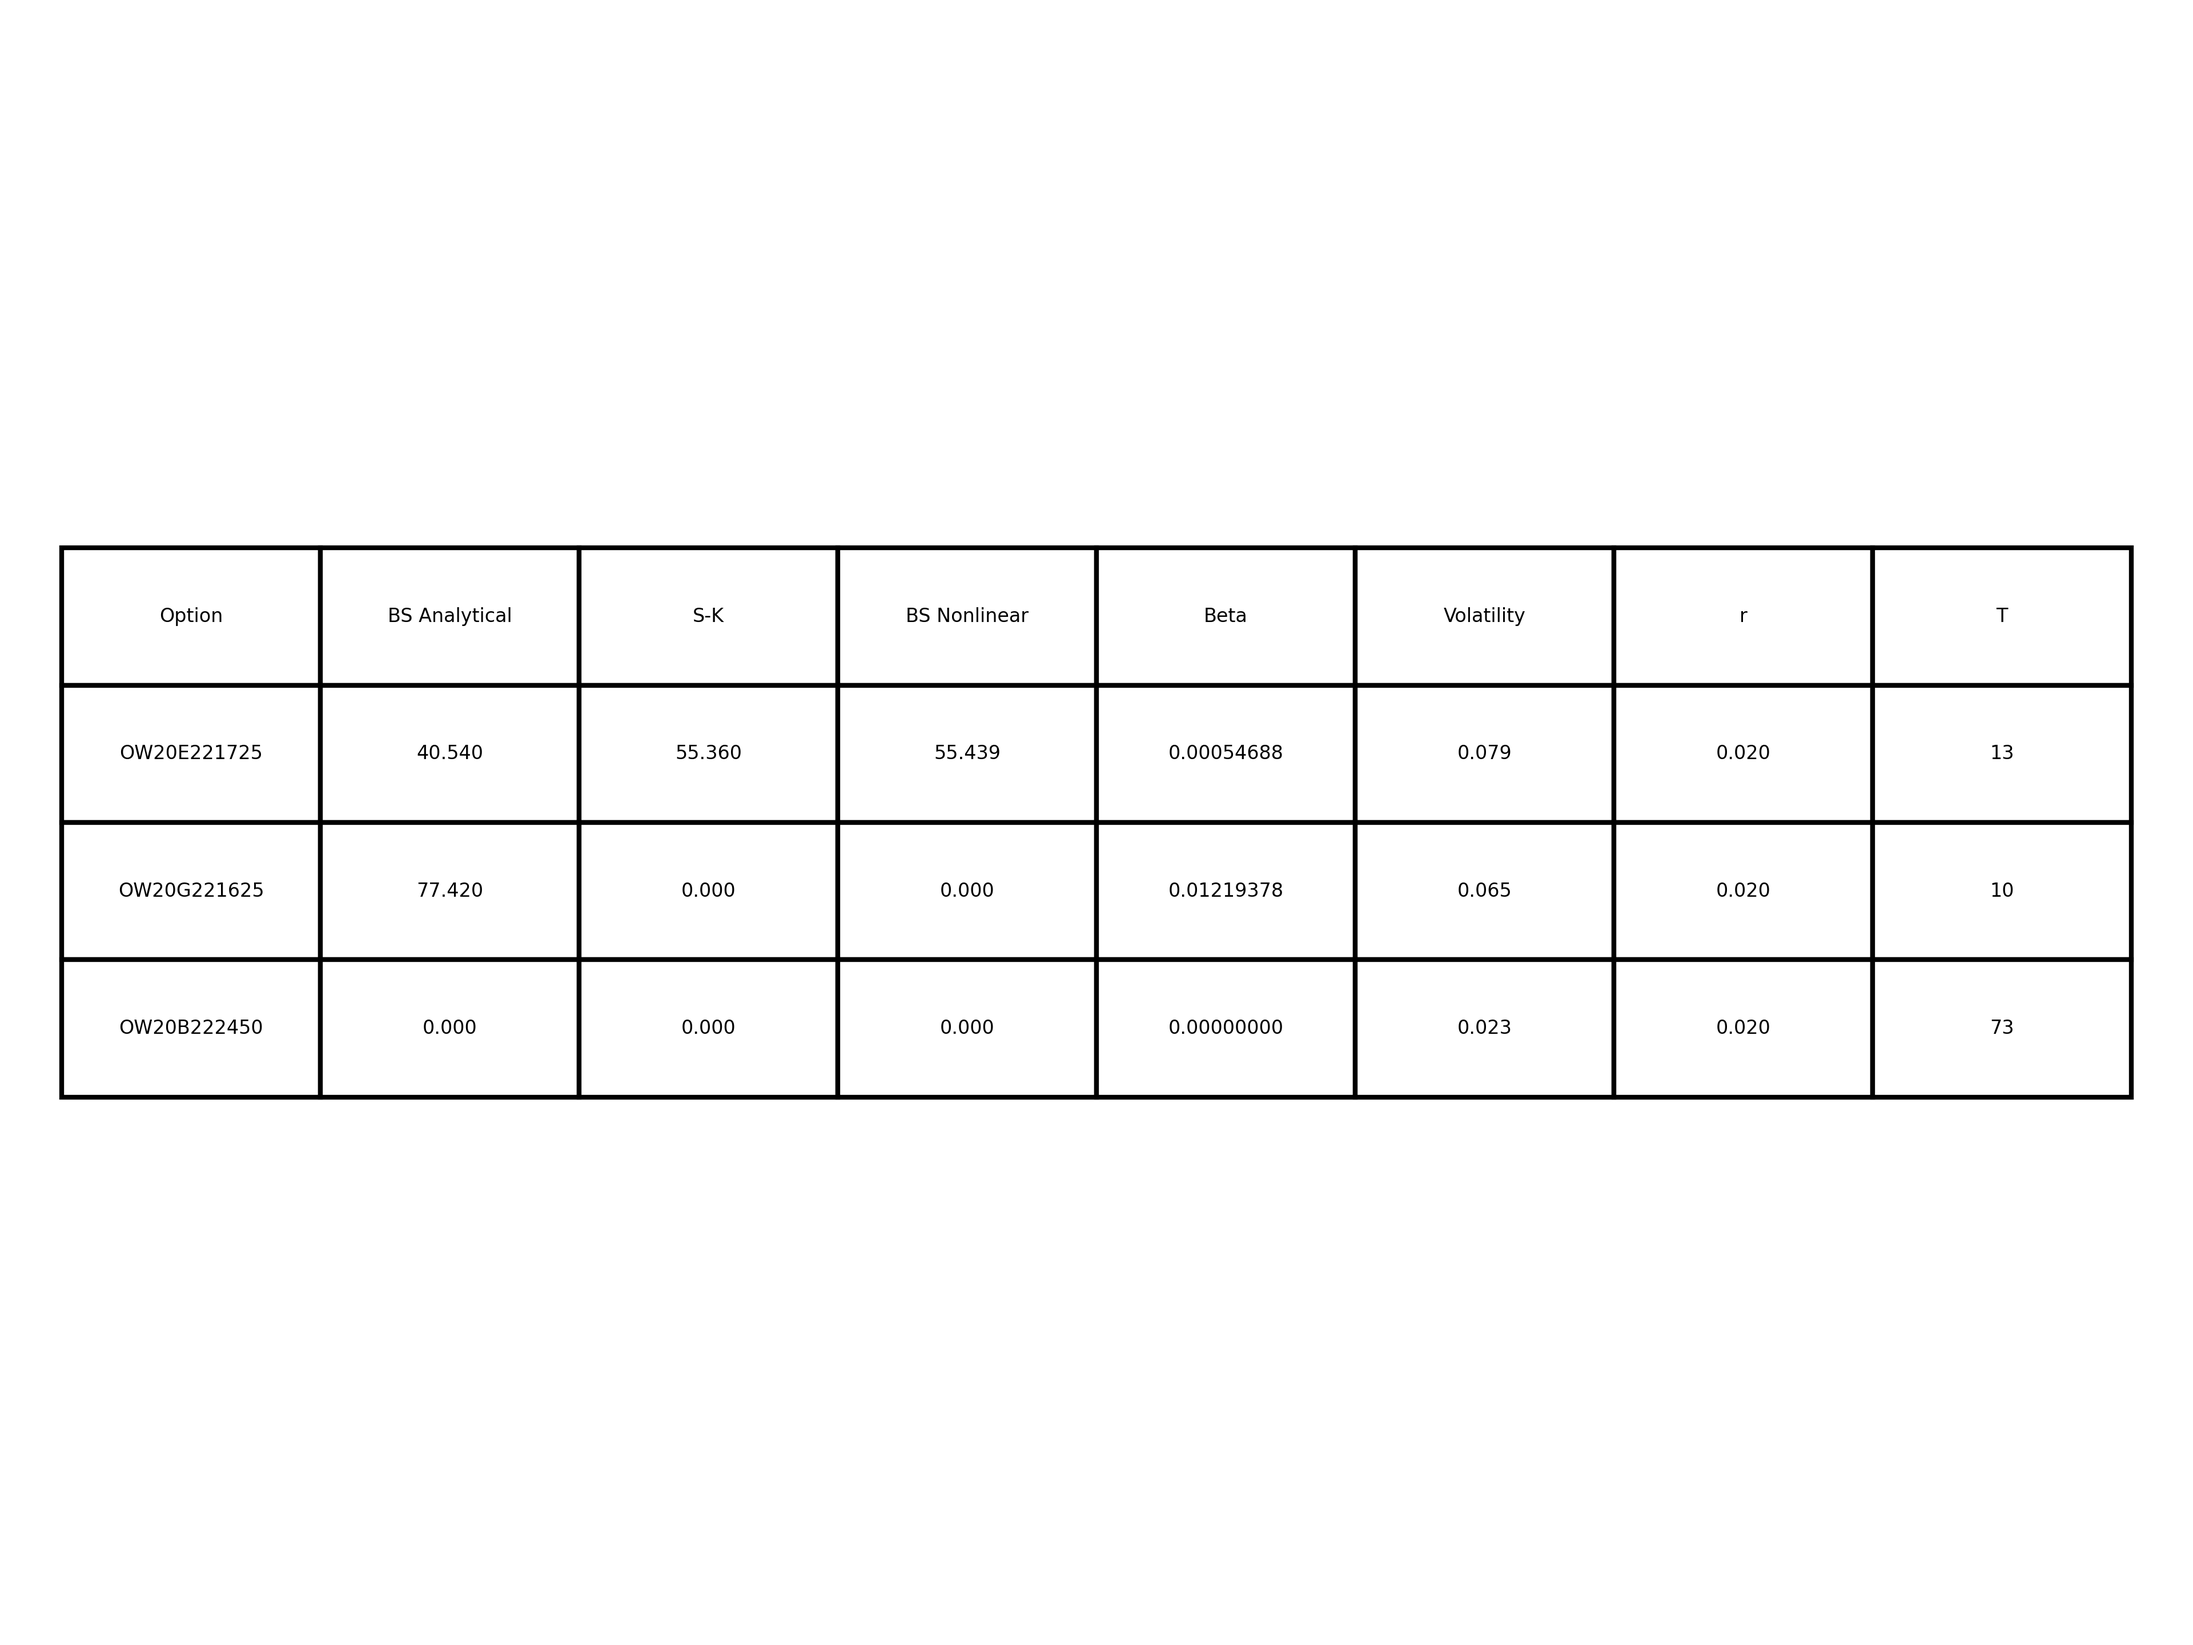
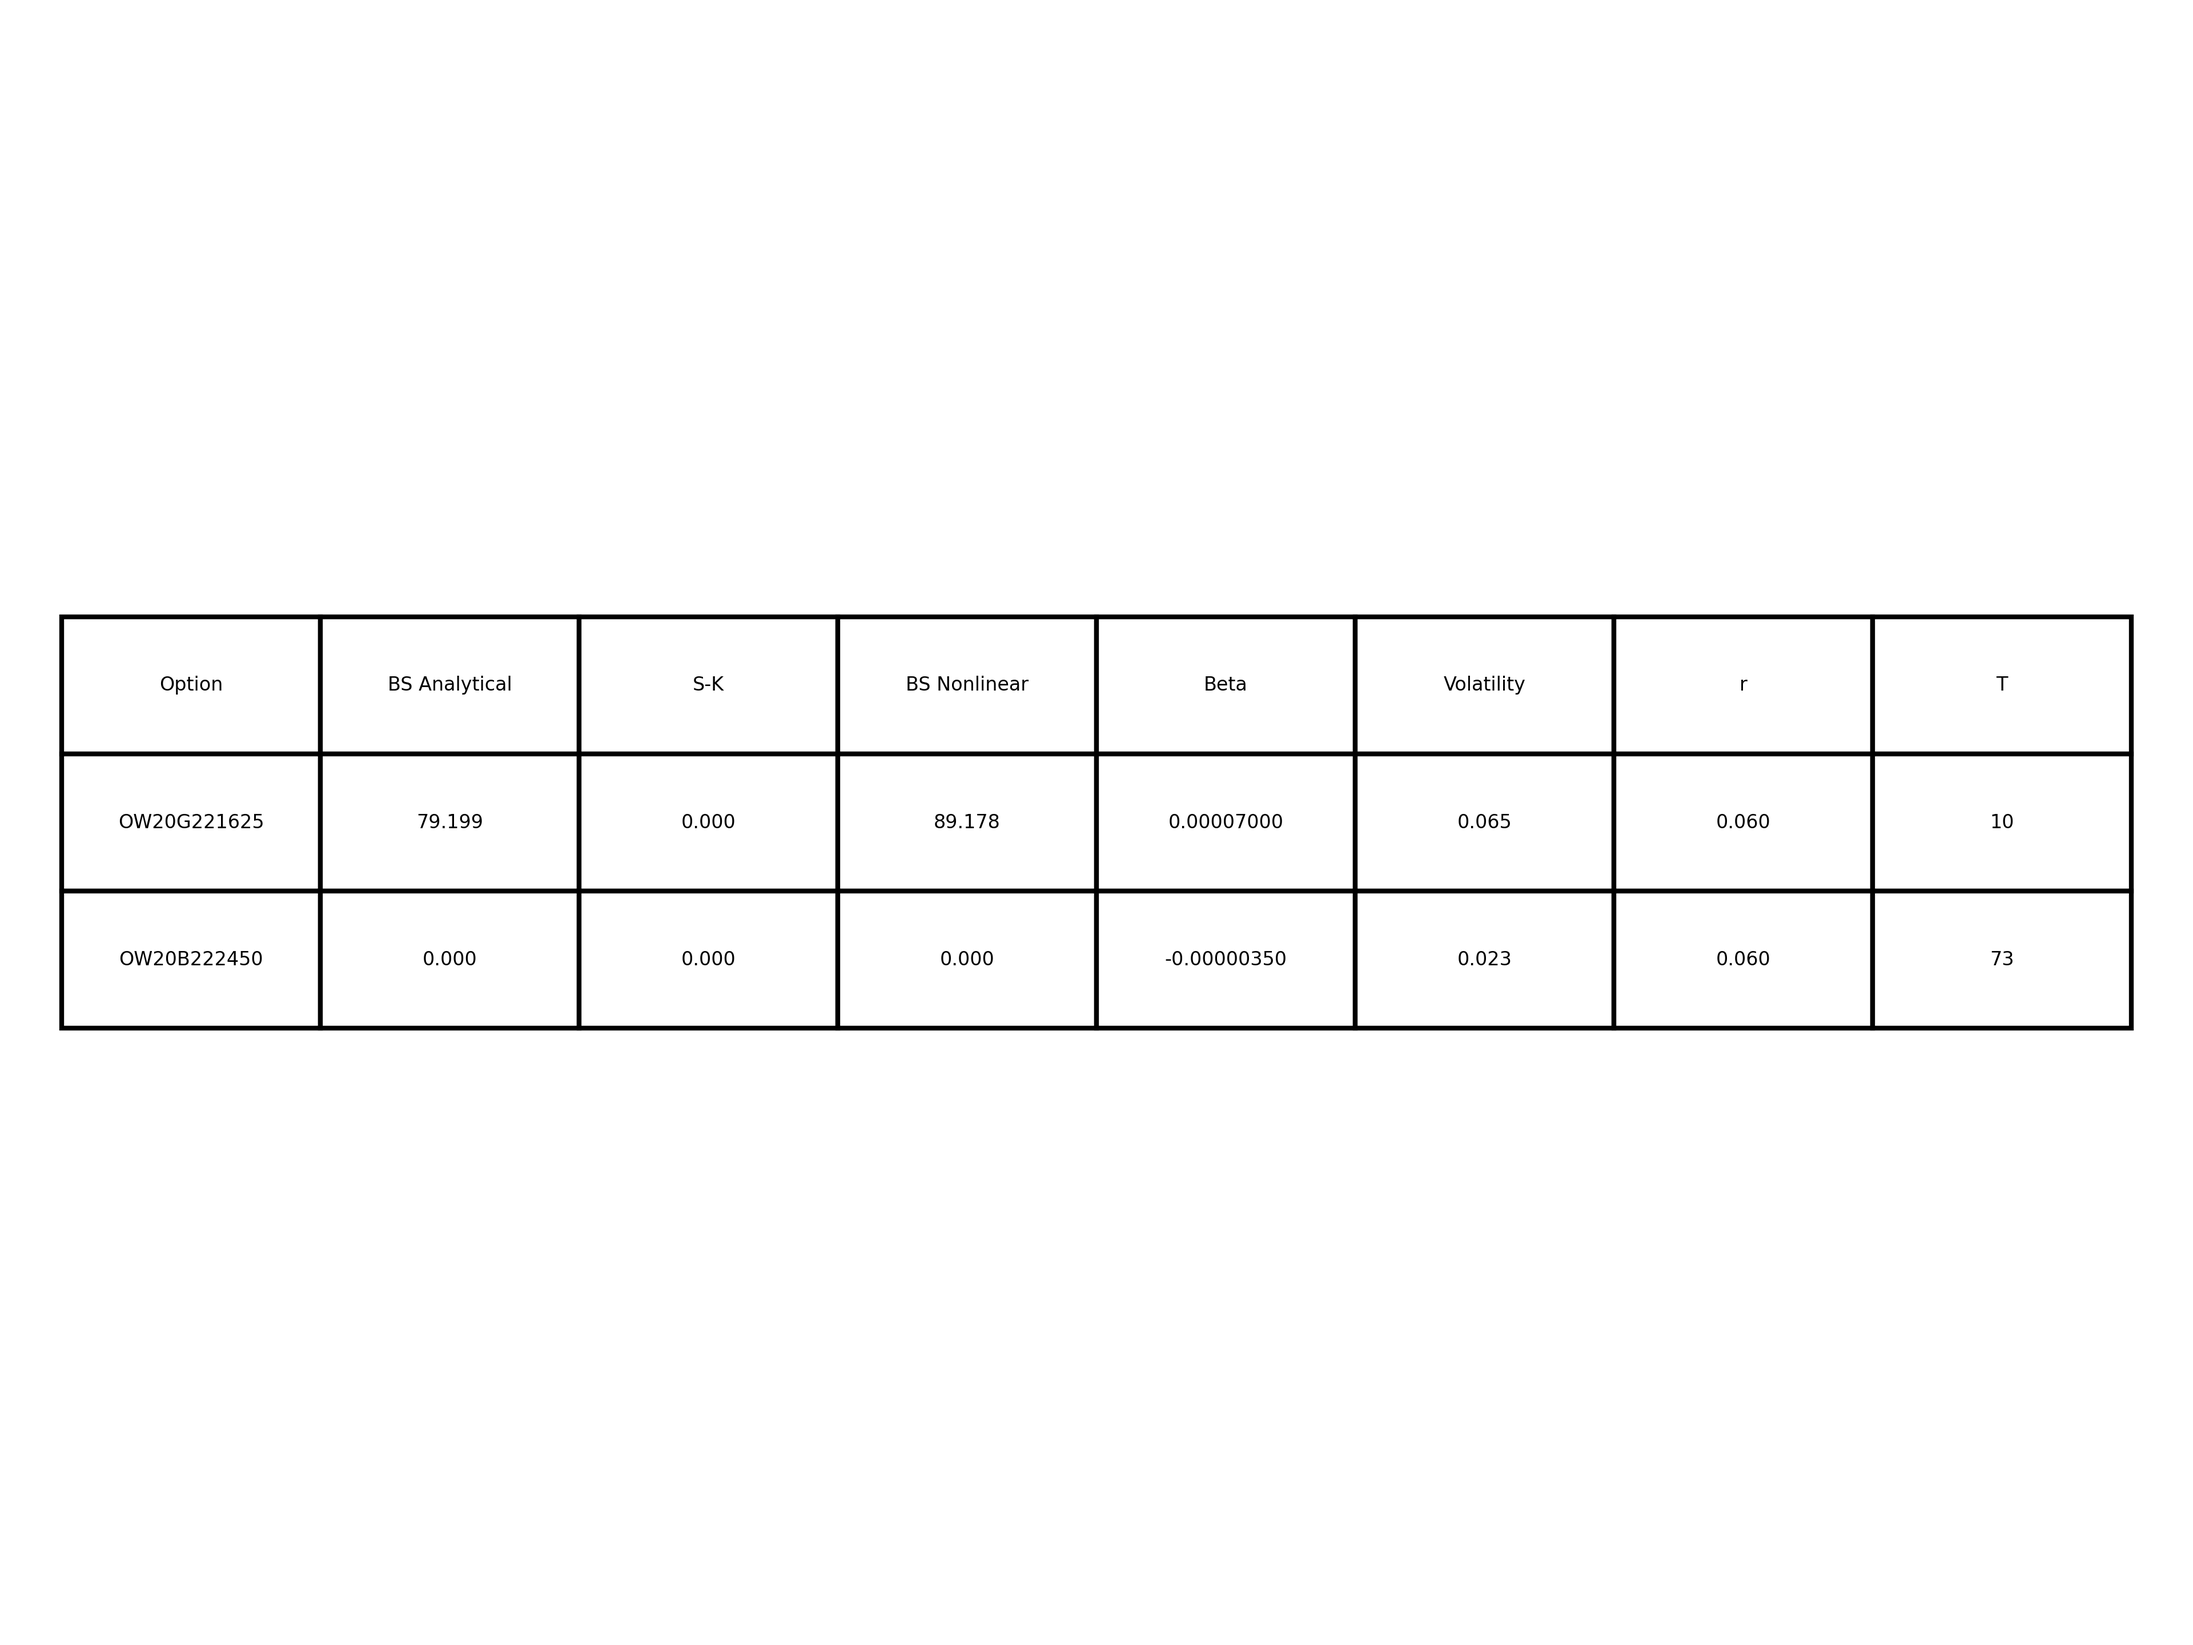
Fixed american options and wig

diff --git a/compute/computation.go b/compute/computation.go
@@ -218,22 +218,22 @@ func calibrateBetaForNonLinearBs(leftBeta, rightBeta float64, incommingRequest *
 	var Uxt [][]float64
 	var err error
 	i := 0
-
+	ds := incommingRequest.MaxPrice / spatialSteps
 	// Calculate for beta = 0 aka linear model
-	//Uxt, calculatedPrice, calculatedDays, calculatedAssetPrice, priceIndexForS0, err = computeNonLinearBlackScholes(incommingRequest.MaxPrice,
-	//	incommingRequest.Volatility, incommingRequest.R, incommingRequest.TMax, incommingRequest.StrikePrice, 0,
-	//	incommingRequest.StartPrice, incommingRequest.MaturityTimeDays, incommingRequest.OptionStyle)
-	//if err != nil {
-	//	return Uxt, calculatedPrice, calculatedDays, calculatedAssetPrice, 0, 0, fmt.Errorf("computation error: %v", err)
-	//}
-	//if int32(calculatedPrice) == int32(incommingRequest.ExpectedPrice) {
-	//	return Uxt, calculatedPrice, calculatedDays, calculatedAssetPrice, 0, priceIndexForS0, nil
-	//}
+	Uxt, calculatedPrice, calculatedDays, calculatedAssetPrice, priceIndexForS0, err = computeNonLinearBlackScholes(ds, incommingRequest.MaxPrice,
+		incommingRequest.Volatility, incommingRequest.R, incommingRequest.TMax, incommingRequest.StrikePrice, 0,
+		incommingRequest.StartPrice, incommingRequest.MaturityTimeDays, incommingRequest.OptionStyle)
+	if err != nil {
+		fmt.Printf("Computation error for linear model, continue with non-linear: %v", err)
+	}
+	if int32(calculatedPrice) == int32(incommingRequest.ExpectedPrice) {
+		return Uxt, math.Max(calculatedPrice, 0), calculatedDays, calculatedAssetPrice, 0, priceIndexForS0, nil
+	}
 
 	// Calculate for beta != 0
 
 	for leftBeta < rightBeta {
-		ds := incommingRequest.MaxPrice / spatialSteps
+		ds = incommingRequest.MaxPrice / spatialSteps
 		middleBeta = (leftBeta + rightBeta) / 2
 		incommingRequest.Beta = middleBeta
 		for {

diff --git a/option_pricing/option_data/European options for different r/European_for_r_0.04/summary_r_0.04.tex b/option_pricing/option_data/European options for different r/European_for_r_0.04/summary_r_0.04.tex
@@ -6,11 +6,11 @@ Option & BS Analytical & S-K & BS Nonlinear & Beta & Volatility & r & T \\
 \begin{tabular}{c c c c c c c c}
 \hline\hline
          
-OW20E221725 & 41.694 & 55.360 & 55.772 & 0.00062500 & 0.079 & 0.040 & 13 \\
-OW20G221625 & 78.310 & 0.000 & 0.263 & 0.01220462 & 0.065 & 0.040 & 10 \\
+OW20E221725 & 41.694 & 55.360 & 54.664 & -0.00005000 & 0.079 & 0.040 & 13 \\
+OW20G221625 & 78.310 & 0.000 & 0.000 & 0.02497500 & 0.065 & 0.040 & 10 \\
 OW20B222450 & 0.000 & 0.000 & 0.000 & 0.00000000 & 0.023 & 0.040 & 73 \\
 
 \hline
 \end{tabular}
-\label{table:nonlin}
+\label{table:nonlin_r_004}
 \end{table}  

diff --git a/option_pricing/option_data/European options for different r/European_for_r_0.01/summary_r_0.01.tex b/option_pricing/option_data/European options for different r/European_for_r_0.01/summary_r_0.01.tex
@@ -6,11 +6,11 @@ Option & BS Analytical & S-K & BS Nonlinear & Beta & Volatility & r & T \\
 \begin{tabular}{c c c c c c c c}
 \hline\hline
 
-OW20E221725 & 39.965 & 55.360 & 55.704 & 0.00046875 & 0.079 & 0.010 & 13 \\
-OW20G221625 & 76.975 & 0.000 & 0.626 & 0.01218828 & 0.065 & 0.010 & 10 \\
+OW20E221725 & 39.965 & 55.360 & 52.050 & -0.00005000 & 0.079 & 0.010 & 13 \\
+OW20G221625 & 76.975 & 0.000 & 0.000 & 0.02497500 & 0.065 & 0.010 & 10 \\
 OW20B222450 & 0.000 & 0.000 & 0.000 & 0.00000000 & 0.023 & 0.010 & 73 \\
 
 \hline
 \end{tabular}
-\label{table:nonlin}
+\label{table:nonlin_r_001}
 \end{table}

diff --git a/option_pricing/option_data/European options for different r/European_for_r_0.02/summary_r_0.02.tex b/option_pricing/option_data/European options for different r/European_for_r_0.02/summary_r_0.02.tex
@@ -6,11 +6,11 @@ Option & BS Analytical & S-K & BS Nonlinear & Beta & Volatility & r & T \\
 \begin{tabular}{c c c c c c c c}
 \hline\hline
 
-OW20E221725 & 40.540 & 55.360 & 55.439 & 0.00054688 & 0.079 & 0.020 & 13 \\
-OW20G221625 & 77.420 & 0.000 & 0.000 & 0.01219378 & 0.065 & 0.020 & 10 \\
+OW20E221725 & 40.540 & 55.360 & 52.919 & -0.00005000 & 0.079 & 0.020 & 13 \\
+OW20G221625 & 77.420 & 0.000 & 0.000 & 0.02497500 & 0.065 & 0.020 & 10 \\
 OW20B222450 & 0.000 & 0.000 & 0.000 & 0.00000000 & 0.023 & 0.020 & 73 \\
 
 \hline
 \end{tabular}
-\label{table:nonlin}
+\label{table:nonlin_r_002}
 \end{table}

diff --git a/option_pricing/option_data/European options for different r/European_for_r_0.03/summary_r_0.03.tex b/option_pricing/option_data/European options for different r/European_for_r_0.03/summary_r_0.03.tex
@@ -6,11 +6,11 @@ Option & BS Analytical & S-K & BS Nonlinear & Beta & Volatility & r & T \\
 \begin{tabular}{c c c c c c c c}
 \hline\hline
 
-OW20E221725 & 41.116 & 55.360 & 55.169 & 0.00062500 & 0.079 & 0.030 & 13 \\
-OW20G221625 & 77.865 & 0.000 & 0.000 & 0.01219922 & 0.065 & 0.030 & 10 \\
+OW20E221725 & 41.116 & 55.360 & 53.790 & -0.00005000 & 0.079 & 0.030 & 13 \\
+OW20G221625 & 77.865 & 0.000 & 0.000 & 0.02497500 & 0.065 & 0.030 & 10 \\
 OW20B222450 & 0.000 & 0.000 & 0.000 & 0.00000000 & 0.023 & 0.030 & 73 \\
 
 \hline
 \end{tabular}
-\label{table:nonlin}
+\label{table:nonlin_r_003}
 \end{table}

diff --git a/option_pricing/option_data/European options for different r/European_for_r_0.05/summary_r_0.05.tex b/option_pricing/option_data/European options for different r/European_for_r_0.05/summary_r_0.05.tex
@@ -6,11 +6,11 @@ Option & BS Analytical & S-K & BS Nonlinear & Beta & Volatility & r & T \\
 \begin{tabular}{c c c c c c c c}
 \hline\hline
 
-OW20E221725 & 42.273 & 55.360 & 55.471 & 0.00070312 & 0.079 & 0.050 & 13 \\
-OW20G221625 & 78.755 & 0.000 & 0.441 & 0.01220998 & 0.065 & 0.050 & 10 \\
+OW20E221725 & 42.273 & 55.360 & 55.234 & -0.00002556 & 0.079 & 0.050 & 13 \\
+OW20G221625 & 78.755 & 0.000 & 0.000 & 0.02497500 & 0.065 & 0.050 & 10 \\
 OW20B222450 & 0.000 & 0.000 & 0.000 & 0.00000000 & 0.023 & 0.050 & 73 \\
 
 \hline
 \end{tabular}
-\label{table:nonlin}
+\label{table:nonlin_r_005}
 \end{table}

diff --git a/option_pricing/option_data/European options for different r/European_for_r_0.06/summary_r_0.06.tex b/option_pricing/option_data/European options for different r/European_for_r_0.06/summary_r_0.06.tex
@@ -6,11 +6,11 @@ Option & BS Analytical & S-K & BS Nonlinear & Beta & Volatility & r & T \\
 \begin{tabular}{c c c c c c c c}
 \hline\hline
 
-OW20E221725 & 42.854 & 55.360 & 55.166 & 0.00078125 & 0.079 & 0.060 & 13 \\
+OW20E221725 & 42.854 & 55.360 & 55.820 & -0.00000350 & 0.079 & 0.060 & 13 \\
 OW20G221625 & 79.199 & 0.000 & 0.370 & 0.01221531 & 0.065 & 0.060 & 10 \\
 OW20B222450 & 0.000 & 0.000 & 0.000 & 0.00000000 & 0.023 & 0.060 & 73 \\
 
 \hline
 \end{tabular}
-\label{table:nonlin}
+\label{table:nonlin_r_006}
 \end{table}

diff --git a/option_pricing/option_data/European options for different r/European_for_r_0.07/summary_r_0.07.tex b/option_pricing/option_data/European options for different r/European_for_r_0.07/summary_r_0.07.tex
@@ -6,11 +6,11 @@ Option & BS Analytical & S-K & BS Nonlinear & Beta & Volatility & r & T \\
 \begin{tabular}{c c c c c c c c}
 \hline\hline
 
-OW20E221725 & 43.436 & 55.360 & 55.715 & 0.00078125 & 0.079 & 0.070 & 13 \\
+OW20E221725 & 43.436 & 55.360 & 55.971 & 0.00005162 & 0.079 & 0.070 & 13 \\
 OW20G221625 & 79.643 & 0.000 & 0.000 & 0.01222059 & 0.065 & 0.070 & 10 \\
 OW20B222450 & 0.000 & 0.000 & 0.000 & 0.00000000 & 0.023 & 0.070 & 73 \\
 
 \hline
 \end{tabular}
-\label{table:nonlin}
+\label{table:nonlin_r_007}
 \end{table}

diff --git a/option_pricing/optionlib/american_options_trader.py b/option_pricing/optionlib/american_options_trader.py
@@ -382,5 +382,5 @@ if __name__ == '__main__':
     # a = AmericanOptions("APPL", "AAPL220617C00143000", 0.03, "/Users/marcinwroblewski/GolandProjects/optionpricing/american.db")
     a = AmericanOptions("APPL", "AAPL220617C00155000", 0.03,
                         "/Users/marcinwroblewski/GolandProjects/optionpricing/american.db")
-    a.calculate_option_data_divided(11)
+    a.calculate_option_data_divided(12)
     # a.calculate_option_data()

diff --git a/option_pricing/optionlib/stooq_trader.py b/option_pricing/optionlib/stooq_trader.py
@@ -179,10 +179,10 @@ class Stooq(StooqBase):
 
         # Add grpc call here
         request = message.ComputeRequest()
-        request.maxPrice = 2350
+        request.maxPrice = 2500
         request.volatility = volatility
         request.r = r
-        request.tMax = 0.9
+        request.tMax = 0.5
         request.strikePrice = K
         request.calculationType = 'NonLinear'
         request.beta = 0.0

diff --git a/compute/utils.go b/compute/utils.go
@@ -8,8 +8,8 @@ const (
 	European     = "European"
 	American     = "American"
 	spatialSteps = 200
-	leftBeta     = -0.5
 	rightBeta    = 0.5
+	leftBeta     = -rightBeta
 )
 
 func FromStructToMatrix(uxtOut *stubs.UxtSlice) [][]float64 {
